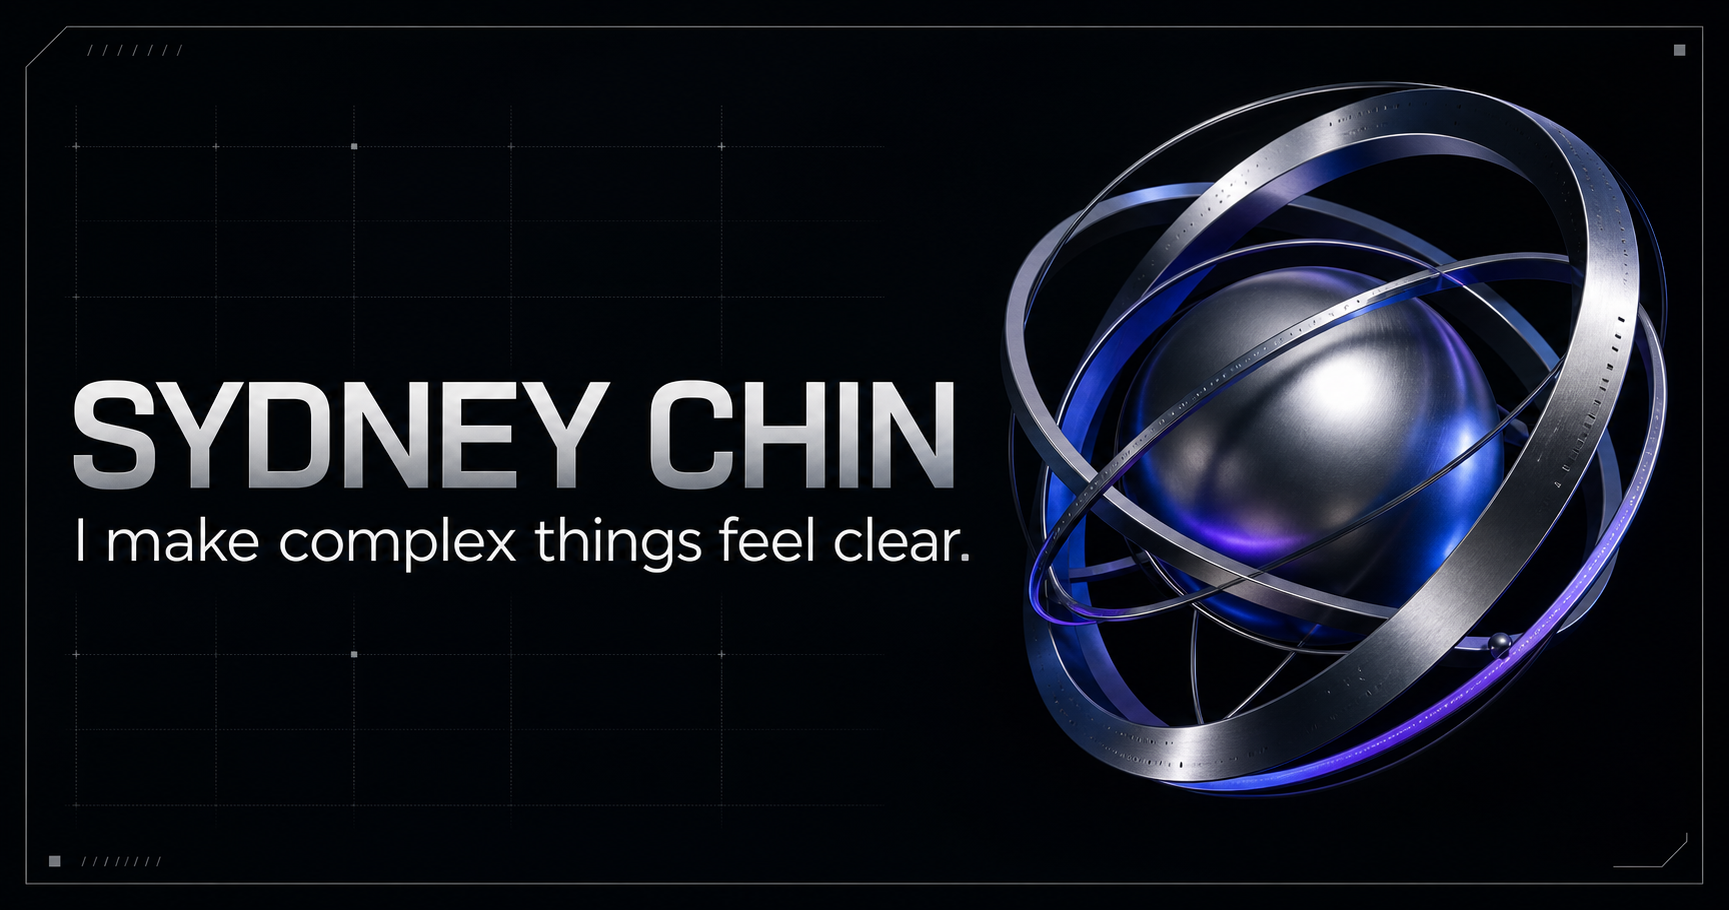
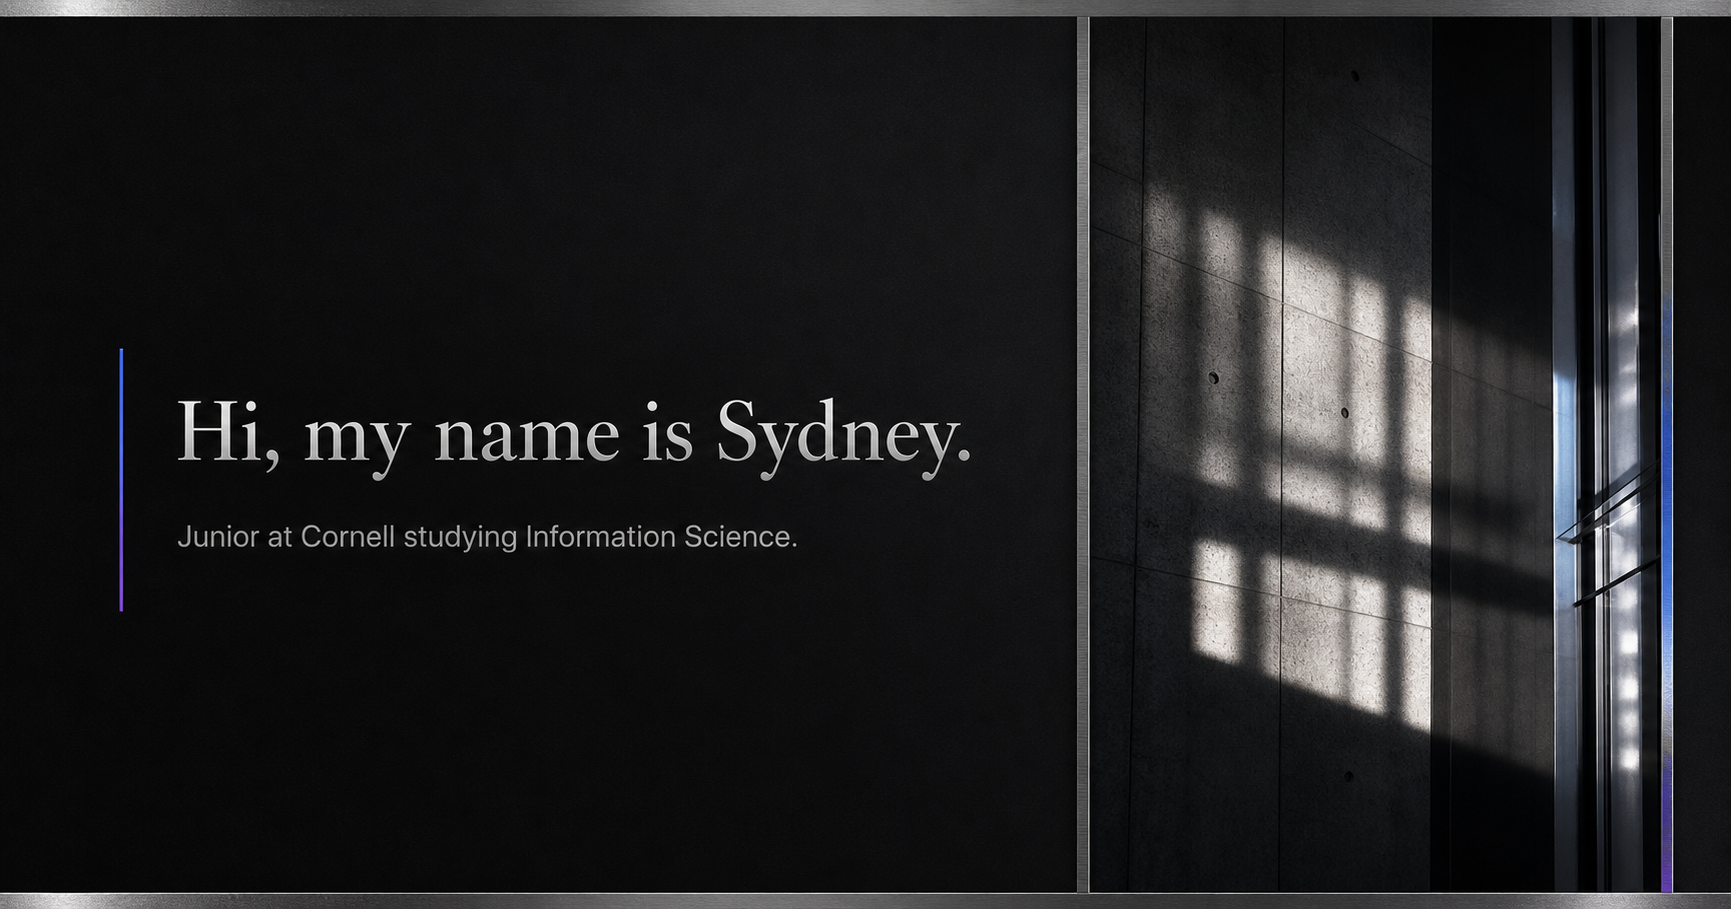
Refine homepage with editorial photo carousel

Changed region(s): [[0.0, 0.0, 1.0, 1.0]]

diff --git a/app/globals.css b/app/globals.css
@@ -37,27 +37,27 @@ main { min-height: 100vh; overflow: hidden; }
 .page-shell { animation: enter .7s cubic-bezier(.2,.75,.2,1) both; }
 @keyframes enter { from { opacity: 0; transform: translateY(12px); } }
 
-.hero { min-height: calc(100vh - 76px); position: relative; padding: 11vh 6vw 5vh; display: flex; flex-direction: column; justify-content: center; border-bottom: 1px solid var(--line); background:
-  radial-gradient(circle at 73% 42%, rgba(80,94,150,.13), transparent 26%),
-  linear-gradient(120deg, transparent 35%, rgba(255,255,255,.025) 50%, transparent 65%); }
-.hero::before, .collection-hero::before { content: ""; position: absolute; inset: 0; pointer-events: none; background-image: linear-gradient(var(--line) 1px,transparent 1px),linear-gradient(90deg,var(--line) 1px,transparent 1px); background-size: 25% 100%,100% 100%; opacity: .28; mask-image: linear-gradient(to bottom,transparent,#000 35%,transparent); }
-.hero-kicker { font: 11px var(--font-geist-mono); text-transform: uppercase; letter-spacing: .13em; color: #9aa1ad; margin-bottom: 30px; }
-.status-dot { display: inline-block; width: 6px; height: 6px; border-radius: 50%; background: var(--blue); box-shadow: 0 0 14px var(--blue); margin-right: 9px; }
+.hero { min-height: calc(100vh - 76px); position: relative; padding: 5vw 6vw; display: grid; grid-template-columns: minmax(0, 1.12fr) minmax(340px, .72fr); gap: 7vw; align-items: center; border-bottom: 1px solid var(--line); background: linear-gradient(120deg,rgba(255,255,255,.02),transparent 42%); }
+.hero::before, .collection-hero::before { content: ""; position: absolute; inset: 0; pointer-events: none; background-image: linear-gradient(var(--line) 1px,transparent 1px),linear-gradient(90deg,var(--line) 1px,transparent 1px); background-size: 25% 100%,100% 100%; opacity: .2; mask-image: linear-gradient(to bottom,transparent,#000 35%,transparent); }
+.hero-intro { position: relative; z-index: 2; }
+.hero-kicker { font: 11px var(--font-geist-mono); letter-spacing: .06em; color: #9aa1ad; margin-bottom: 30px; }
 h1 { margin: 0; position: relative; z-index: 2; font-size: clamp(60px,9vw,148px); line-height: .85; letter-spacing: -.075em; font-weight: 500; background: linear-gradient(110deg,#fff 12%,#9da2ac 48%,#fafbff 65%,#757a84 92%); -webkit-background-clip: text; color: transparent; }
 h1 em { font-family: Georgia, serif; font-weight: 400; color: var(--violet); background: linear-gradient(110deg,var(--blue),#d0b9ff 55%,var(--violet)); -webkit-background-clip: text; font-style: italic; }
-.hero-bottom { margin-top: 64px; display: flex; justify-content: space-between; align-items: end; width: 54%; position: relative; z-index: 2; }
-.hero-bottom p { width: 520px; max-width: 75%; color: #a7acb5; font-size: 18px; line-height: 1.55; margin: 0; }
-.scroll-note { font: 9px var(--font-geist-mono); color: #676d77; text-transform: uppercase; letter-spacing: .1em; display: flex; align-items: center; gap: 15px; }
-.scroll-note i { font-size: 18px; font-style: normal; color: var(--blue); }
-.orbital { position: absolute; width: min(34vw,500px); aspect-ratio: 1; right: 4vw; top: 50%; transform: translateY(-50%); }
-.orbital::before { content: ""; position: absolute; inset: 15%; border-radius: 50%; background: radial-gradient(circle at 35% 30%,rgba(255,255,255,.65),rgba(85,96,125,.18) 35%,#08090d 69%); box-shadow: inset -20px -25px 55px #000, 0 0 80px rgba(69,137,255,.1); }
-.orbital-core { position: absolute; inset: 40%; border-radius: 50%; display: grid; place-items: center; z-index: 3; font: 600 11px var(--font-geist-mono); color: #0b0c0f; background: linear-gradient(145deg,#fff,#777d89 50%,#f2f3f5); box-shadow: 0 0 30px rgba(165,110,255,.4); }
-.orbit { position: absolute; inset: 4%; border: 1px solid rgba(150,164,198,.3); border-radius: 50%; transform: rotateX(66deg) rotateZ(-25deg); }
-.orbit-two { inset: 20% -7%; transform: rotateY(67deg) rotateZ(35deg); border-color: rgba(165,110,255,.36); }
-.orbit-dot { width: 9px; height: 9px; border-radius: 50%; position: absolute; top: 20%; right: 10%; background: var(--violet); box-shadow: 0 0 20px var(--violet); }
+.hero-intro > p { color: #a7acb5; font-size: 19px; line-height: 1.55; margin: 52px 0 0; max-width: 520px; }
+.hero-footnote { margin-top: 18px; color: #626873; font: 10px var(--font-geist-mono); letter-spacing: .04em; }
+.photo-carousel { position: relative; z-index: 2; width: 100%; max-width: 520px; justify-self: end; }
+.photo-frame { position: relative; aspect-ratio: 4 / 5; overflow: hidden; border: 1px solid rgba(235,240,255,.26); background: #15171c; box-shadow: 0 24px 80px rgba(0,0,0,.38); }
+.photo-frame::after { content: ""; position: absolute; inset: 0; background: linear-gradient(125deg,rgba(255,255,255,.16),transparent 25%,transparent 70%,rgba(69,137,255,.12)); pointer-events: none; mix-blend-mode: screen; }
+.carousel-photo { position: absolute; inset: 0; width: 100%; height: 100%; object-fit: cover; filter: saturate(.55) contrast(1.08) brightness(.72); opacity: 0; transform: scale(1.025); transition: opacity .55s ease, transform .8s ease; }
+.carousel-photo.active { opacity: 1; transform: scale(1); }
+.photo-placeholder-note { position: absolute; z-index: 2; top: 18px; left: 18px; padding: 8px 10px; background: rgba(8,9,12,.74); border: 1px solid rgba(255,255,255,.18); color: #c7cad0; font: 9px var(--font-geist-mono); letter-spacing: .04em; }
+.carousel-controls { display: flex; align-items: center; justify-content: space-between; padding-top: 16px; color: #737985; font: 10px var(--font-geist-mono); }
+.carousel-controls div { display: flex; gap: 8px; }
+.carousel-controls button { width: 42px; height: 38px; border: 1px solid var(--line); background: linear-gradient(145deg,rgba(255,255,255,.07),rgba(255,255,255,.015)); cursor: pointer; transition: border-color .2s, color .2s; }
+.carousel-controls button:hover { border-color: #727986; color: #fff; }
 
 .profile-section, .dispatches { display: grid; grid-template-columns: 26% 1fr; padding: 120px 6vw; border-bottom: 1px solid var(--line); }
-.section-label { font: 10px var(--font-geist-mono); text-transform: uppercase; letter-spacing: .13em; color: #737985; }
+.section-label { font: 10px var(--font-geist-mono); letter-spacing: .07em; color: #737985; }
 .section-label span { color: var(--blue); margin-right: 18px; }
 .profile-copy { max-width: 960px; }
 .lead { font-size: clamp(34px,5vw,72px); line-height: 1.08; letter-spacing: -.045em; margin: 0 0 70px; color: #b9bdc5; }
@@ -70,7 +70,7 @@ h1 em { font-family: Georgia, serif; font-weight: 400; color: var(--violet); bac
 .signal-card:last-child { border-right: 0; }
 .signal-card:hover { background: linear-gradient(145deg,rgba(69,137,255,.12),rgba(165,110,255,.04)); }
 .signal-card > span { font: 10px var(--font-geist-mono); color: #515761; }
-.signal-card small { display: block; margin-top: 75px; color: #6f7580; text-transform: uppercase; letter-spacing: .1em; font: 9px var(--font-geist-mono); }
+.signal-card small { display: block; margin-top: 75px; color: #6f7580; letter-spacing: .06em; font: 9px var(--font-geist-mono); }
 .signal-card p { font-size: 20px; letter-spacing: -.025em; max-width: 240px; }
 
 .collection-hero { min-height: 580px; padding: 100px 6vw 70px; position: relative; display: grid; grid-template-columns: 16% 1fr 30%; align-items: end; border-bottom: 1px solid var(--line); overflow: hidden; }
@@ -82,19 +82,19 @@ h1 em { font-family: Georgia, serif; font-weight: 400; color: var(--violet); bac
 .project-card { display: grid; grid-template-columns: 52% 1fr; min-height: 500px; border-bottom: 1px solid var(--line); }
 .project-visual { position: relative; display: grid; place-items: center; overflow: hidden; background: radial-gradient(circle at 60% 50%,rgba(98,109,141,.22),transparent 44%); border-right: 1px solid var(--line); }
 .project-visual > span { position: absolute; left: 0; top: 28px; font: 10px var(--font-geist-mono); color: #656b76; }
-.project-sphere { width: 230px; height: 230px; border-radius: 50%; background: linear-gradient(145deg,#e6e7eb,#474d59 35%,#0a0b0e 60%,#a56eff); box-shadow: -25px -10px 70px rgba(69,137,255,.15); transition: transform .5s; }
-.project-card:nth-child(2) .project-sphere { border-radius: 0; transform: rotate(45deg); background: linear-gradient(135deg,var(--blue),#111 48%,var(--violet)); }
-.project-card:nth-child(3) .project-sphere { border-radius: 45% 55% 70% 30%; background: conic-gradient(from 45deg,#eee,#333,var(--violet),var(--blue),#eee); }
-.project-card:hover .project-sphere { transform: scale(1.07) rotate(8deg); }
+.project-sphere { width: 280px; height: 210px; border-radius: 2px; background: linear-gradient(145deg,#e6e7eb,#474d59 35%,#0a0b0e 60%,#a56eff); box-shadow: -25px -10px 70px rgba(69,137,255,.15); transition: transform .5s; transform: skewY(-5deg); }
+.project-card:nth-child(2) .project-sphere { transform: rotate(-7deg); background: linear-gradient(135deg,var(--blue),#111 48%,var(--violet)); }
+.project-card:nth-child(3) .project-sphere { transform: skewX(8deg); background: linear-gradient(110deg,#eee,#333,var(--violet),var(--blue),#eee); }
+.project-card:hover .project-sphere { transform: translateY(-8px); }
 .project-info { padding: 70px 8%; position: relative; align-self: center; }
-.project-info small { font: 9px var(--font-geist-mono); color: var(--blue); text-transform: uppercase; letter-spacing: .12em; }
+.project-info small { font: 9px var(--font-geist-mono); color: var(--blue); letter-spacing: .07em; }
 .project-info h2 { font-size: 42px; letter-spacing: -.045em; margin: 22px 0; }
 .project-info p { color: #8f959f; line-height: 1.65; max-width: 420px; }
 .project-info button, .writing-list article button { width: 48px; height: 48px; border: 1px solid var(--line); background: none; position: absolute; right: 0; bottom: 70px; font-size: 20px; }
 
 .coffee-list { padding: 70px 6vw 130px; }
 .list-head, .coffee-list article { display: grid; grid-template-columns: 12% 24% 30% 1fr; align-items: center; }
-.list-head { padding: 0 0 18px; border-bottom: 1px solid var(--line); color: #5f6570; text-transform: uppercase; letter-spacing: .1em; font: 9px var(--font-geist-mono); }
+.list-head { padding: 0 0 18px; border-bottom: 1px solid var(--line); color: #5f6570; letter-spacing: .06em; font: 9px var(--font-geist-mono); }
 .coffee-list article { min-height: 150px; border-bottom: 1px solid var(--line); transition: background .25s, padding .25s; }
 .coffee-list article:hover { background: linear-gradient(90deg,rgba(69,137,255,.08),transparent); padding-left: 15px; }
 .coffee-list strong { font: 400 34px var(--font-geist-mono); background: linear-gradient(var(--blue),var(--violet)); -webkit-background-clip: text; color: transparent; }
@@ -117,19 +117,19 @@ h1 em { font-family: Georgia, serif; font-weight: 400; color: var(--violet); bac
 
 .writing-list { padding: 40px 6vw 130px; }
 .writing-list > article { display: grid; grid-template-columns: 12% 30% 1fr 8% 50px; gap: 3%; align-items: center; min-height: 170px; border-bottom: 1px solid var(--line); position: relative; }
-.writing-list time, .writing-list > article > span { font: 9px var(--font-geist-mono); color: #686e78; text-transform: uppercase; }
+.writing-list time, .writing-list > article > span { font: 9px var(--font-geist-mono); color: #686e78; }
 .writing-list h2 { font-size: 27px; margin: 0; letter-spacing: -.035em; }
 .writing-list p { color: #858b95; line-height: 1.5; }
 .writing-list article button { position: static; }
 .newsletter { margin-top: 100px; padding: 70px; border: 1px solid var(--line); background: radial-gradient(circle at 80%,rgba(100,87,154,.22),transparent 30%),linear-gradient(120deg,#14171d,#090a0c); }
-.newsletter > span { font: 9px var(--font-geist-mono); text-transform: uppercase; letter-spacing: .14em; color: var(--blue); }
+.newsletter > span { font: 9px var(--font-geist-mono); letter-spacing: .08em; color: var(--blue); }
 .newsletter h2 { font-size: 48px; letter-spacing: -.05em; margin: 20px 0 10px; }
 .newsletter p { color: #8d939d; max-width: 550px; }
 .newsletter > div { display: flex; margin-top: 35px; max-width: 630px; }
 .newsletter input { flex: 1; background: rgba(0,0,0,.2); border: 1px solid var(--line); padding: 15px; color: #fff; outline: none; }
 .newsletter > div button { background: linear-gradient(120deg,var(--blue),var(--violet)); color: #090a0c; border: 0; padding: 0 25px; font-weight: 600; }
 
-footer { height: 100px; padding: 0 6vw; display: flex; justify-content: space-between; align-items: center; font: 9px var(--font-geist-mono); text-transform: uppercase; letter-spacing: .1em; color: #646a74; }
+footer { height: 100px; padding: 0 6vw; display: flex; justify-content: space-between; align-items: center; font: 9px var(--font-geist-mono); letter-spacing: .06em; color: #646a74; }
 footer a { color: #c8cbd1; text-decoration: none; }
 footer a span { color: var(--blue); margin-left: 10px; }
 
@@ -142,10 +142,8 @@ footer a span { color: var(--blue); margin-left: 10px; }
   .nav-item span { display: inline; margin-right: 15px; }
   .menu-button { display: flex; width: 66px; margin-left: auto; background: none; border: 0; border-left: 1px solid var(--line); flex-direction: column; align-items: center; justify-content: center; gap: 6px; }
   .menu-button span { width: 20px; height: 1px; background: #bbb; }
-  .hero { min-height: 730px; padding: 80px 6vw 50px; justify-content: flex-start; }
+  .hero { min-height: auto; padding: 90px 6vw; grid-template-columns: 1fr 40%; }
   .hero h1 { font-size: clamp(58px,12vw,100px); margin-top: 25px; }
-  .orbital { width: 330px; right: -100px; top: 70%; opacity: .7; }
-  .hero-bottom { width: 75%; margin-top: 55px; }
   .profile-section, .dispatches { grid-template-columns: 1fr; gap: 55px; padding: 85px 6vw; }
   .collection-hero { grid-template-columns: 12% 1fr; min-height: 500px; }
   .collection-hero > p { grid-column: 2; margin-top: 35px; }
@@ -159,12 +157,10 @@ footer a span { color: var(--blue); margin-left: 10px; }
 
 @media (max-width: 650px) {
   .name { display: none; }
-  .hero { min-height: 680px; padding-top: 65px; }
+  .hero { min-height: auto; padding: 65px 6vw 70px; grid-template-columns: 1fr; gap: 60px; }
   .hero h1 { font-size: 15.2vw; line-height: .9; }
-  .hero-bottom { width: 100%; display: block; margin-top: 45px; }
-  .hero-bottom p { max-width: 90%; font-size: 15px; }
-  .scroll-note { display: none; }
-  .orbital { width: 250px; top: 75%; right: -90px; }
+  .hero-intro > p { font-size: 16px; margin-top: 38px; }
+  .photo-carousel { justify-self: stretch; max-width: none; }
   .profile-columns, .signal-grid { grid-template-columns: 1fr; }
   .signal-card { min-height: 190px; border-right: 0; border-bottom: 1px solid var(--line); }
   .signal-card small { margin-top: 45px; }

diff --git a/app/page.tsx b/app/page.tsx
@@ -40,13 +40,13 @@ const projectCards = [
 
 const coffees = [
   ["9.2", "Sey Coffee", "Bushwick, Brooklyn", "Ethiopia · Hamasho", "Floral, exacting, quietly theatrical."],
-  ["8.8", "Suited", "Financial District, NYC", "Colombia · Pink Bourbon", "A serious cup in an unexpectedly warm room."],
-  ["8.6", "La Cabra", "East Village, NYC", "Kenya · Kii AA", "Bright acidity, beautiful light, excellent pastry."],
+  ["8.8", "Suited", "Financial District, Nyc", "Colombia · Pink Bourbon", "A serious cup in an unexpectedly warm room."],
+  ["8.6", "La Cabra", "East Village, Nyc", "Kenya · Kii Aa", "Bright acidity, beautiful light, excellent pastry."],
   ["8.3", "Dayglow", "West Hollywood, LA", "Rwanda · Shyira", "Playful, obsessive, and worth the line."],
 ];
 
 const tracks = [
-  ["01", "Eusexua", "FKA twigs", "04:23"],
+  ["01", "Eusexua", "Fka twigs", "04:23"],
   ["02", "Baddy on the Floor", "Jamie xx · Honey Dijon", "03:42"],
   ["03", "Anything", "Adrianne Lenker", "03:57"],
   ["04", "Cherry-coloured Funk", "Cocteau Twins", "03:12"],
@@ -90,7 +90,7 @@ export default function Home() {
     <main>
       <header className="site-header">
         <button className="wordmark" onClick={() => selectTab("About Me")} aria-label="Sydney Chin — About Me">
-          <span className="mark">SC</span>
+          <span className="mark">S</span>
           <span className="name">Sydney Chin</span>
         </button>
         <nav className={menuOpen ? "nav open" : "nav"} aria-label="Primary navigation">
@@ -125,20 +125,42 @@ export default function Home() {
 }
 
 function About({ onNavigate }: { onNavigate: (tab: Tab) => void }) {
+  const photos = [
+    { src: "/photos/placeholder-1.jpg", alt: "A weathered white wall and bench" },
+    { src: "/photos/placeholder-2.jpg", alt: "A sunlit courtyard with laundry overhead" },
+    { src: "/photos/placeholder-3.jpg", alt: "A modern architectural interior" },
+  ];
+  const [photo, setPhoto] = useState(0);
+  const showPhoto = (next: number) => setPhoto((next + photos.length) % photos.length);
+
   return (
     <>
       <section className="hero">
-        <div className="hero-kicker"><span className="status-dot" /> Strategist · Designer · Curious human</div>
-        <h1>I make complex<br />things feel <em>clear.</em></h1>
-        <div className="hero-bottom">
-          <p>I&apos;m Sydney—a strategist and maker working at the intersection of technology, culture, and human behavior.</p>
-          <div className="scroll-note"><span>Scroll to explore</span><i>↓</i></div>
+        <div className="hero-intro">
+          <div className="hero-kicker">About me · Based in Ithaca and New York</div>
+          <h1>Hi, my name<br />is <em>Sydney.</em></h1>
+          <p>I&apos;m a junior at Cornell studying Information Science.</p>
+          <div className="hero-footnote">More about me soon.</div>
         </div>
-        <div className="orbital" aria-hidden="true">
-          <div className="orbital-core">SC</div>
-          <span className="orbit orbit-one" />
-          <span className="orbit orbit-two" />
-          <span className="orbit-dot" />
+        <div className="photo-carousel" aria-roledescription="carousel" aria-label="Photo placeholders">
+          <div className="photo-frame">
+            {photos.map((item, index) => (
+              <img
+                key={item.src}
+                src={item.src}
+                alt={item.alt}
+                className={index === photo ? "carousel-photo active" : "carousel-photo"}
+              />
+            ))}
+            <span className="photo-placeholder-note">Temporary photo</span>
+          </div>
+          <div className="carousel-controls">
+            <span>{String(photo + 1).padStart(2, "0")} / {String(photos.length).padStart(2, "0")}</span>
+            <div>
+              <button onClick={() => showPhoto(photo - 1)} aria-label="Previous photo">←</button>
+              <button onClick={() => showPhoto(photo + 1)} aria-label="Next photo">→</button>
+            </div>
+          </div>
         </div>
       </section>
 
@@ -159,7 +181,7 @@ function About({ onNavigate }: { onNavigate: (tab: Tab) => void }) {
         <div className="signal-grid">
           {[
             ["Thinking about", "How play changes the way adults learn."],
-            ["Listening to", "Eusexua · FKA twigs"],
+            ["Listening to", "Eusexua · Fka twigs"],
             ["Drinking", "A washed Ethiopian from Hamasho."],
           ].map(([label, value], index) => (
             <article className="signal-card" key={label}>
@@ -218,7 +240,7 @@ function Coffee() {
 
 function Music() {
   return <section className="music-layout">
-    <div className="album-art"><div className="disc" /><span>NOW PLAYING</span><h2>Currents<br />& Signals</h2><small>07 · JULY 2026</small></div>
+    <div className="album-art"><div className="disc" /><span>Now playing</span><h2>Currents<br />& Signals</h2><small>07 · July 2026</small></div>
     <div className="track-list">
       {tracks.map(([number, title, artist, time]) => <article key={title}><span>{number}</span><div><h3>{title}</h3><small>{artist}</small></div><time>{time}</time><button aria-label={`Play ${title}`}>▶</button></article>)}
     </div>

diff --git a/app/layout.tsx b/app/layout.tsx
@@ -13,20 +13,20 @@ const geistMono = Geist_Mono({
 });
 
 export const metadata: Metadata = {
-  metadataBase: new URL("https://sydney-chin.sites.openai.com"),
+  metadataBase: new URL("https://sydney-chin.sydneychin13.chatgpt.site"),
   title: "Sydney Chin — Strategy, Design & Curious Things",
   description:
     "The personal portfolio of Sydney Chin: strategist, designer, writer, coffee enthusiast, and curious human.",
   openGraph: {
-    title: "Sydney Chin — I make complex things feel clear.",
-    description: "Strategy, design, culture, coffee, music, and ideas in progress.",
+    title: "Hi, my name is Sydney.",
+    description: "Sydney is a junior at Cornell studying Information Science.",
     type: "website",
     images: ["/og.png"],
   },
   twitter: {
     card: "summary_large_image",
-    title: "Sydney Chin — I make complex things feel clear.",
-    description: "Strategy, design, culture, coffee, music, and ideas in progress.",
+    title: "Hi, my name is Sydney.",
+    description: "Sydney is a junior at Cornell studying Information Science.",
     images: ["/og.png"],
   },
   icons: {
